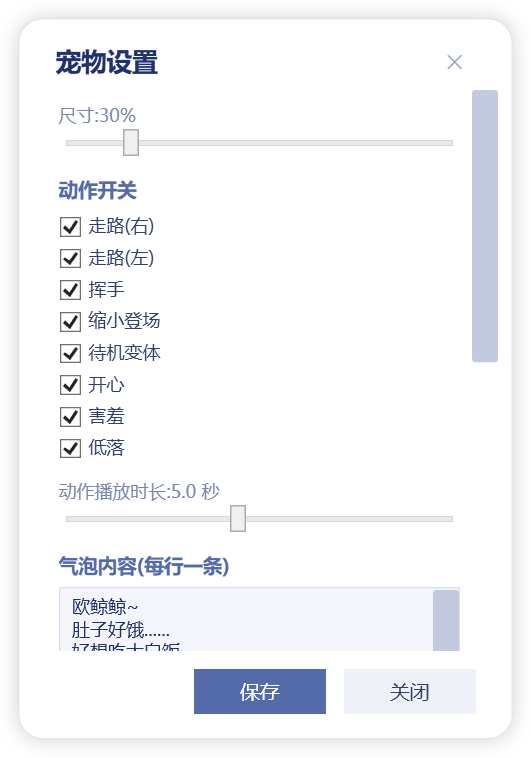
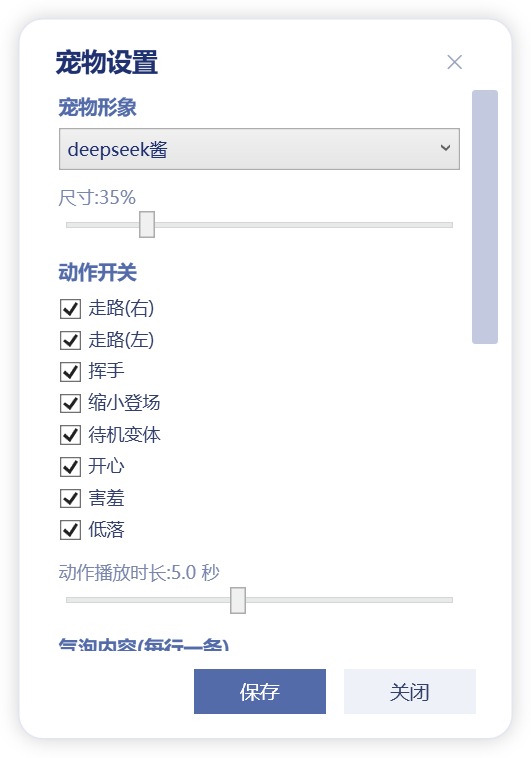
README 更新:多宠物形象、--settings 参数、CI 发布说明与新设置截图

diff --git a/README.md b/README.md
@@ -10,9 +10,14 @@
 
 设置窗口:尺寸、动作开关、气泡样式、倒计时全部可视化配置:
 
-![image-20261014102816978](docs/settings.png)
+![image-20261019154823962](docs/settings.png)
 
 ## 功能
+
+### 多宠物形象
+- 程序自带 deepseek 精灵图,开箱即用
+- 设置页下拉框可切换通过 `npx petdex@latest install <id>` 安装到 `~/.petdex/pets/` 的其他宠物
+- 所选宠物被删除或素材读取失败时,自动回退到内置 deepseek 形象
 
 ### 动作系统
 - **默认待机**:不操作时播放,眨眼循环
@@ -36,16 +41,18 @@
 
 ## 使用
 
-1. 安装 [.NET 8 Desktop Runtime](https://dotnet.microsoft.com/download/dotnet/8.0)
+1. 安装 [.NET 8 Desktop Runtime](https://dotnet.microsoft.com/download/dotnet/8.0),或直接下载 Release 页的自包含单文件版
 2. 双击 `PetdexPet.exe`,宠物出现在桌面右下角
 3. 右键宠物 → **设置...** 打开设置页;**退出** 关闭宠物
+4. 也可以用 `PetdexPet.exe --settings` 直接打开设置页
 
-> 宠物素材(deepseek 精灵图)已内置在程序中,无需额外安装,双击即用。
+> deepseek 宠物素材已内置在程序中,无需额外安装,双击即用。
 
 ## 设置项一览
 
 | 设置项 | 范围 | 说明 |
 | --- | --- | --- |
+| 宠物形象 | 下拉选择 | 自带 deepseek,或 `~/.petdex/pets/` 下已安装的宠物 |
 | 尺寸 | 10%~130% | 宠物在桌面上的大小 |
 | 动作开关 | 开/关 | 逐项启用或禁用动作 |
 | 动作播放时长 | 1~10 秒 | 挥手/开心/害羞/低落/待机变体的播放时长 |
@@ -64,8 +71,8 @@
 ## 技术实现
 
 - WPF 透明置顶窗口(`AllowsTransparency` + `Topmost`),鼠标穿透气泡窗口
-- 宠物包为 WebP 精灵图,使用 Magick.NET 解码为 PNG 后按 8 列 × 9 行(192×208)裁切帧
-- 动画约定(行号 → 动作)为主机端规范,`DispatcherTimer` 逐帧驱动
+- deepseek 精灵图以 EmbeddedResource 内置于 exe;也支持读取 `~/.petdex/pets/` 下 Petdex 包的 WebP 精灵图,使用 Magick.NET 解码为 PNG 后按 8 列 × 9 行(192×208)裁切帧
+- 动画帧延时表提取自 Qoder 原版渲染器(如待机 280/110/110/140/140/320ms),DispatcherTimer 按 30ms 累积驱动;"动作播放时长"对帧延时做等比缩放,保留原版节奏
 - 云朵气泡样式移植自 [DeepSeek-Balance-Whale-Widget](https://github.com/MeteorNOX/DeepSeek-Balance-Whale-Widget)
 - 配置持久化:`%APPDATA%\PetdexPet\config.json`
 
@@ -75,3 +82,7 @@
 dotnet build -c Release
 # 产物: bin/Release/net8.0-windows/PetdexPet.exe
 ```
+
+## 发布
+
+推送 `v*` 标签(如 `v1.1`)时,GitHub Actions 会自动以自包含单文件模式构建,打包 zip 并创建 Release,无需安装 .NET 运行时。
